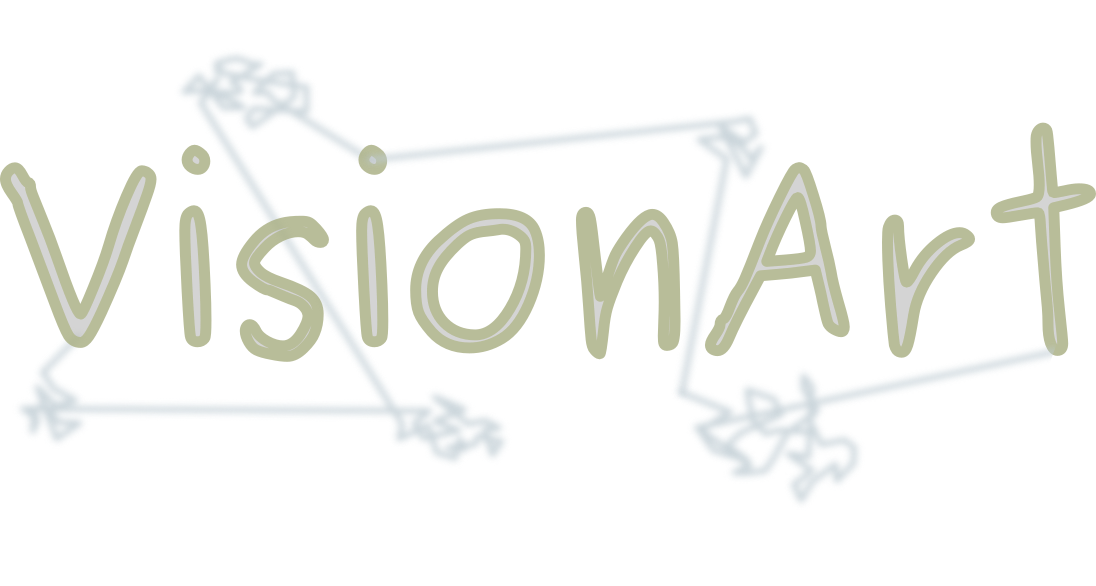
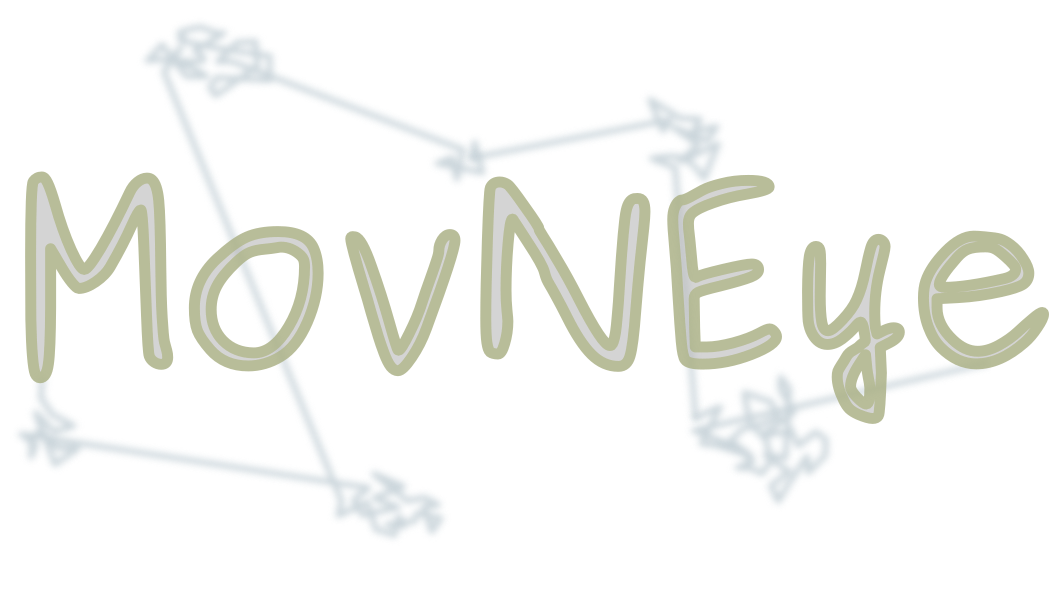
initial commit

diff --git a/setup.py b/setup.py
@@ -1,28 +1,26 @@
 import setuptools
-# import runpy
-# import os
-
-# root = os.path.dirname(os.path.realpath(__file__))
-# version = runpy.run_path(os.path.join(root, "visionart", "version.py"))["version"]
 
 with open("README.md", "r") as fh:
     long_description = fh.read()
 
+with open("requirements.txt", "r") as f:
+    required = f.read().splitlines()
+
 setuptools.setup(
-    name="VisionArt",
+    name="MovNEye",
     version="0.1",
     author="Simone Testa",
     author_email="simonetesta994@gmail.com",
-    description="Converting static images to neuromorphic data by using bio-inspired Fixational Eye Movements and a setup comprising a Pan-Tilt unit and an event-based vision camera.",
+    description="Converting static images to event-based data using an active neuromorphic vision setup guided by bio-inspired Fixational Eye Movements.",
     long_description=long_description,
     long_description_content_type="text/markdown",
-    # url="https://github.com/simo-net/MeyeView",
+    url="https://github.com/simo-net/MovNEye",
     include_package_data=False,
     packages=setuptools.find_packages(),
-    install_requires=["numpy", "pyserial", "tqdm", "opencv-python", "matplotlib", "pyaer", "pandas", "scipy", "tensorflow-datasets", "pyyaml"],
+    setup_requires=["pyyaml", "scikit-build", "tensorflow"],
+    install_requires=required,
     classifiers=[
         "Programming Language :: Python :: 3",
-#         "License :: OSI Approved :: GNU General Public License v3 (GPLv3)",
         "Operating System :: Linux",
         "Intended Audience :: Science/Research",
     ],

diff --git a/README.md b/README.md
@@ -4,17 +4,48 @@
 
 ---
 
-**_MovNEye_**  stands for: "_VIewing Static Images On Neuromorphic Artificial Retinas with Tremors_".
-It is a tool to facilitate the neuromorphic community in the exhausting task for converting static image-classification
+**_MovNEye_**  stands for: "_Moving a Neuromorphic Eye_".
+It is a tool to facilitate the neuromorphic community in the exhausting task of converting static computer-vision
 datasets to their event-based counterparts. It requires a neuromorphic vision camera (DAVIS, dynamic and active vision 
-sensor) mounted on top of 2 servo-motors (PTU, pant-tilt unit), driven by taking inspiration from natural viewing during
-fixation (FEMs, fixational eye movements). The system converts the static images into spike trains by exploiting a 
-silicon retina and human's dynamic fixational strategies (a trembling motion).
+sensor) mounted on top of two servo-motors (PTU, pant-tilt unit), driven by taking inspiration from natural viewing
+during fixation (FEMs, fixational eye movements). The system converts static images into spike trains by exploiting a 
+silicon retina and human's dynamic fixational strategies (a microscopic and randomly-drifting motion pattern).
+
+---
+## Motivation
+
+I firmly believe that research in neuromorphic computing would be strongly accelerated from building 
+large and natively-spiking benchmarks. Having extensive datasets is extremely important for offline 
+training of spiking neural networks, and event-based sensors represent the natural solution for 
+suitably encoding external information to the spiking domain (i.e. through sparse and noisy events 
+with highly precise and informative timing). Notably, the acquisition strategy can play a central role 
+on this, similarly as in biology: by actively scanning the environment, data can be productively 
+structured in complex temporal streams. Therefore, exploring different active-sensing patterns may be 
+beneficial for neuromorphic computing. Nowadays, standard computer-vision datasets still dominate 
+the benchmarks in neuromorphic research, but these datasets do not require the native temporal 
+processing capabilities of spiking neurons, and as such do not showcase their full potentialities. 
+So far, N-MNIST is the largest and most-widely used natively-neuromorphic dataset for benchmarking 
+SNNs on vision tasks, counting 70k samples, 10 classes and a triangular acquisition pattern. 
+Most of the algorithms produced for neuromorphic vision have been trained for solving it, 
+hence the benefits it brought to the community are undeniable. But new and larger datasets, 
+bringing novel and more challenging tasks, are now becoming essential. Challenging problems, 
+such as the ImageNet task for deep learning, drove significant advances in computer vision. 
+Neuromorphic vision computing does not yet have a well-defined and truly-challenging task that the 
+entire community is attempting to solve. One of the reasons is that building large-scale event-based 
+datasets is not a trivial task, being it time-consuming, tedious and requiring specific knowledge. 
+As I have personally tested in my research activity, automating this process could dramatically reduce 
+such an effort, thus possibly leading to the generation of more and more benchmarks for training 
+networks to face new and diverse challenges. The aim of this repository is therefore to provide general 
+tools for defining a recording pipeline, hopefully facilitating the process of building new and 
+extensive neuromorphic vision datasets from other research groups. Since this toolkit was developed 
+as an intermediate step of my research project, it only supports the specific hardware I adopted 
+(that is described underneath), but it could possibly serve as a methodological basis for facilitating 
+future work of researchers dealing with similar problems as mine.
 
 ---
 
 ## Hardware requirements
-- neuromorphic vision sesnsor DAVIS-346 (red) from IniVation SpA
+- neuromorphic vision sensor DAVIS-346 (red) from IniVation SpA
 - pan-tilt unit device PTU-E46 from FLIR SpA
 
 ## Software requirements
@@ -34,11 +65,11 @@ silicon retina and human's dynamic fixational strategies (a trembling motion).
 The DAVIS sensor should be mounted on top of the PTU and placed in front of a monitor. Note that the whole screen
 should _entirely_ fall in the DAVIS field-of-view. All three devices must be serially connected to a host computer
 running scripts from this repository. It is recommended to encapsulate the whole DAVIS-PTU-monitor system into a
-dark enclosure in order to avoid for external light sources corrupting the recordings. The host pc should be left
+dark enclosure in order to avoid for external light sources corrupting the recordings. The host PC should be left
 outside the enclosure, for external control by an operator.
 
 The recording process should consist of 6 main phases:
-1) calibration of both the sensor's optics (calib-2D) and of the camera-monitor system (calib-3D)
+1) calibration both of the sensor optics (calib-2D) and of the camera-monitor system (calib-3D)
 2) generation of FEM sequences
 3) data recording
 4) data diagnostics, analysis and errors correction
@@ -60,6 +91,11 @@ functions. To avoid having to prompt the sudo password every time, the USB port 
 change the time limit for a sudo session. You can then call the function in _powercontrol.py_ and only have to insert
 the password when calling it the first time. Note that you should change the sudoers file. Check the notes at the
 beginning of the python file for more detailed instructions.
+
+## Limitations
+- the code was only tested under an Ubuntu Linux environment with both distributions 18.04 and 20.04.
+- there could be issues with serial communications due to super-user permissions required by the system. Either run the code with
+sudo permission or check out [this link](https://www.xmodulo.com/change-usb-device-permission-linux.html) for a permanent solution.
 
 ## Citation
 If you find this package helpful, please consider citing:
